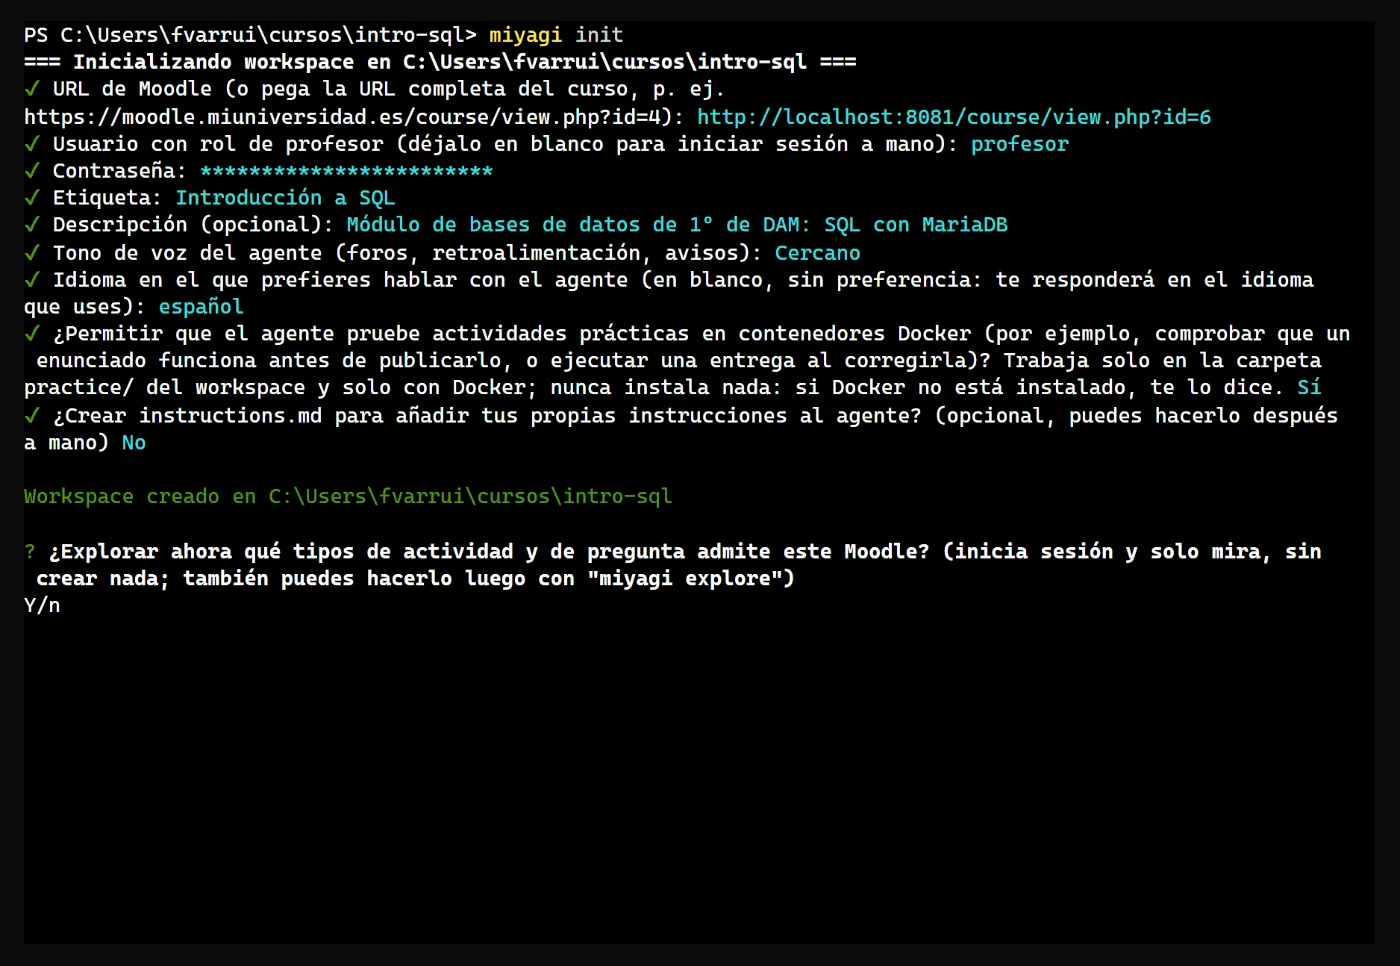
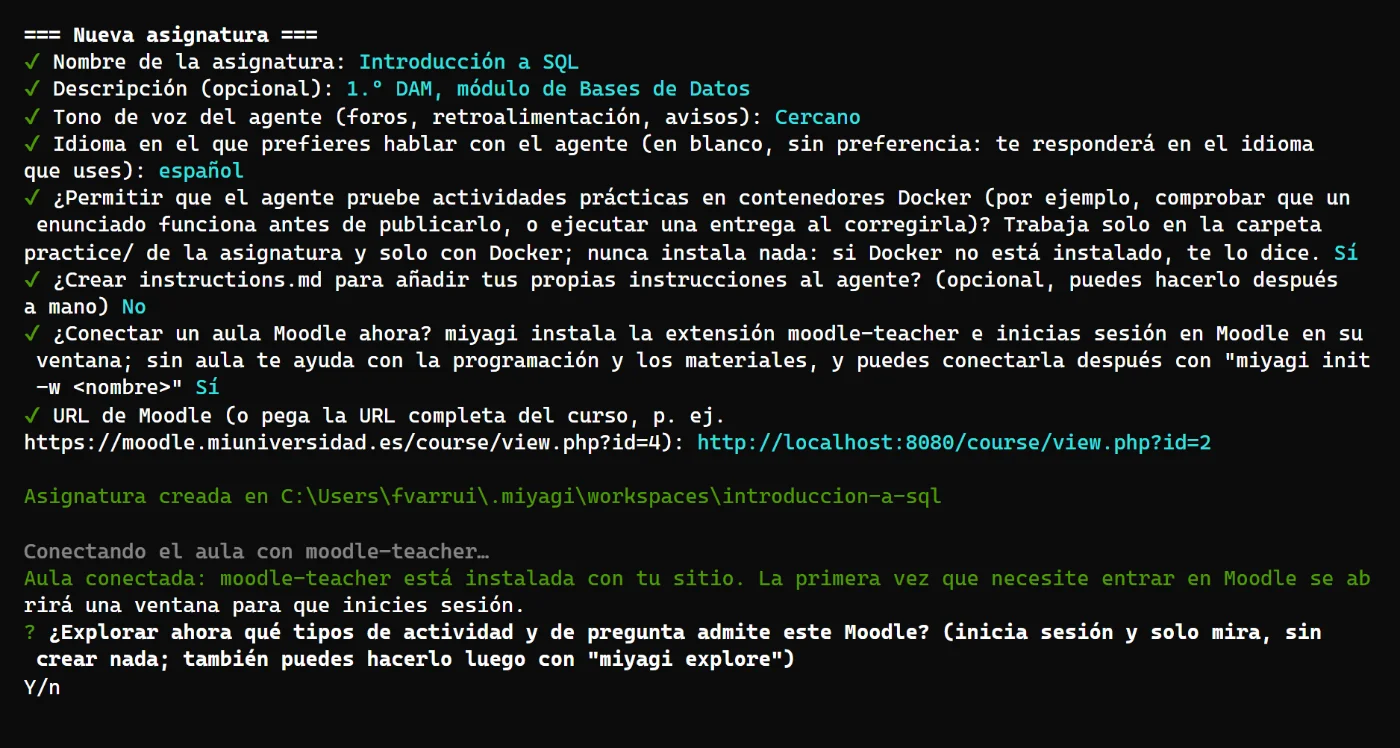
docs(site): captura nueva de miyagi init en el caso de uso

Changed region(s): [[0.0, 0.0307, 0.9829, 0.615], [0.0, 0.7072, 0.9829, 0.9225], [0.0, 0.6457, 0.6757, 0.6765]]

diff --git a/docs/content/casos-de-uso/preparar-el-aula.md b/docs/content/casos-de-uso/preparar-el-aula.md
@@ -36,6 +36,8 @@ Primero pregunta por la asignatura y, al final, por el aula de Moodle. Estas son
 
 Con eso instala la extensión **moodle-teacher**, que es la que trabaja en Moodle con tu sesión de profesor, y apunta en ella la dirección de tu Moodle.
 
+<Shot src="/img/casos/01-init.webp" title="PowerShell — miyagi init" alt="La terminal con miyagi init: nombre Introducción a SQL, descripción 1.º DAM, tono Cercano, idioma español, pruebas en Docker activadas, sin instructions.md, aula conectada con la URL del curso, la asignatura creada en la carpeta de miyagi, moodle-teacher instalado con el sitio y la pregunta de si explorar ahora" />
+
 ## Explorar el Moodle
 
 Después propone explorar el Moodle, y decimos que sí. Como es la primera vez, moodle-teacher abre una ventana del navegador para que entres en Moodle tú mismo, con tu usuario y tu contraseña: ni miyagi ni el asistente la ven. La extensión guarda la sesión, así que las siguientes veces no vuelve a pedirla hasta que caduque.
